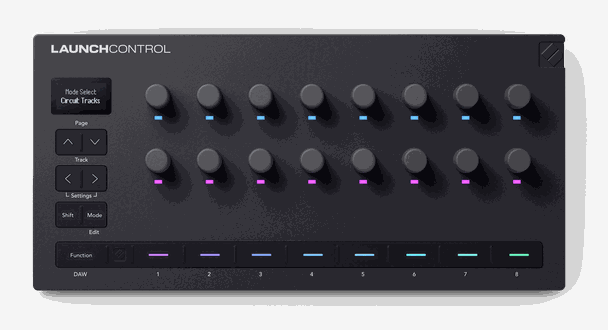
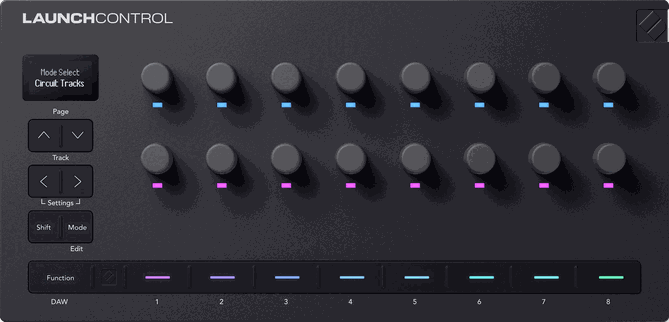
Controls Guide: photos cropped to the device, one height; the Launch Control 3's guide stands alone (Adam, 2026-11-04)
The three photos are cropped to the opaque device (the Launch Control 3's
had a wide soft shadow) and scaled to 322 pixels tall, the tallest at
which the Roto-Control's fits the page. The Launch Control 3's guide no
longer refers to the XL 3's: it has its own buttons table and notes, the
same text in ControlsGuide and docs/SETUP.md.

Claude-Session: https://claude.ai/code/session_01X1yiLTREdtDAuNmEVbFzKU

diff --git a/Sources/BridgeEngine/ControlsGuide.swift b/Sources/BridgeEngine/ControlsGuide.swift
@@ -99,18 +99,27 @@ public struct ControlsGuide: Equatable, Sendable {
     static let launchControl3 = ControlsGuide(
         title: "Launch Control 3",
         image: "controller-launch-control-3",
-        introduction: ["The Launch Control 3 works the same way, with fewer controls:"],
+        introduction: [],
         tables: [
             Table(controlHeading: "Control (in each column)", actionHeading: "What it does for that column's channel", rows: [
                 Row("Bottom encoder", "Level in Main Out"),
                 Row("Top encoder", "Pan, or a send: **Page ▼** / **▲** steps it through Pan, then each output in the Outputs list"),
                 Row("Button", "Mute; PFL while **Function** (labeled \"DAW\" underneath) is held (orange for mute, yellow for PFL, dim when off). Function rests dim yellow; it lights bright yellow while held, and also while any channel's PFL is on, so a PFL left on still shows"),
             ]),
+            Table(controlHeading: "Button", actionHeading: "What it does", rows: [
+                Row("**Track >** / **Track <**", "Show the next or previous eight channels. With **Shift**: the last or first eight."),
+                Row("**Page ▼** / **Page ▲**", "Change what the top encoder row does: Pan, then each output in the Outputs list, in order."),
+                Row("**Shift + turn an encoder**", "Reset it: a pan to the center, a level above 0 dB down to 0 dB (one at or below 0 dB stays), a send to −oo (release Shift, then Shift + turn it again to bring it back). Hold Shift for a moment (0.3 s) first; after Page or Track in the same hold, turning does nothing."),
+            ]),
         ],
         notes: [
-            "Track works as on the XL 3 and Shift + turn resets an encoder as it does there; a level above 0 dB comes down to 0 dB, and one at or below 0 dB stays.",
-            "The screen shows the channels on the page, the top row's function (e.g., \"Top: Pan\"), and the buttons' (\"Buttons: Mute\", or \"PFL on, buttons Mute\" while a PFL is on; briefly \"Buttons\" over \"PFL\" while Function is held).",
-            "The **Novation button** brings TotalMix FX's window to the front, as on the XL 3.",
+            "The screen shows the channels on the page, counted in the order of **Settings… → Channel Layout** with a stereo pair counting once, the top row's function (e.g., \"Top: Pan\"), and the buttons' (\"Buttons: Mute\", or \"PFL on, buttons Mute\" while a PFL is on; briefly \"Buttons\" over \"PFL\" while Function is held).",
+            "Moving a control shows its channel, what it does, and its value.",
+            "After each Page press the screen names the top row's new function.",
+            "The top row's function is remembered when Performance Bridge restarts. It can also be chosen in Settings, at the bottom of the Connections tab, with the Launch Control connected or not; the change takes effect at once.",
+            "Press **Track <** and **Track >** together to go back to the first eight channels.",
+            "The **Novation button** brings TotalMix FX's window to the front. Press it again while TotalMix FX is in front to go back to the app you were in (if TotalMix FX came to the front some other way, the press hides it instead).",
+            "Level and pan are Main Out's. In TotalMix FX each submix has its own level and pan for every channel, so TotalMix FX's window shows the pans set here only while Main Out's output is selected in its bottom row (observed 2026-11-01 on a Launch Control XL 3).",
             "The Launch Control 3 has not been tried on a device yet.",
         ])
 

diff --git a/docs/SETUP.md b/docs/SETUP.md
@@ -215,7 +215,7 @@ the main mix) and the cue output (PFL uses it) aren't listed there.
 
 ### Roto-Control
 
-<img src="../App/PerformanceBridge/Resources/controller-roto-control.png" width="560" alt="Melbourne Instruments Roto-Control, seen from above: eight knobs, each with a screen and a switch below it, and the MODE, LEARN, FUNC, SEL, and arrow buttons on the left">
+<img src="../App/PerformanceBridge/Resources/controller-roto-control.png" width="558" alt="Melbourne Instruments Roto-Control, seen from above: eight knobs, each with a screen and a switch below it, and the MODE, LEARN, FUNC, SEL, and arrow buttons on the left">
 
 Each of the eight knobs is a channel.
 
@@ -230,7 +230,7 @@ the same channels.
 
 ### Launch Control XL 3
 
-<img src="../App/PerformanceBridge/Resources/controller-launch-control-xl3.png" width="172" alt="Novation Launch Control XL 3, seen from above: three rows of eight encoders, eight faders, and two rows of eight buttons, with Page, Track, Shift, and Mode on the left">
+<img src="../App/PerformanceBridge/Resources/controller-launch-control-xl3.png" width="168" alt="Novation Launch Control XL 3, seen from above: three rows of eight encoders, eight faders, and two rows of eight buttons, with Page, Track, Shift, and Mode on the left">
 
 | Control (in each column) | What it does for that column's channel |
 |---|---|
@@ -267,9 +267,7 @@ the same channels.
 
 ### Launch Control 3
 
-<img src="../App/PerformanceBridge/Resources/controller-launch-control-3.png" width="304" alt="Novation Launch Control 3, seen from above: two rows of eight encoders and one row of eight buttons, with Page, Track, Shift, Mode, and Function on the left">
-
-The Launch Control 3 works the same way, with fewer controls:
+<img src="../App/PerformanceBridge/Resources/controller-launch-control-3.png" width="334" alt="Novation Launch Control 3, seen from above: two rows of eight encoders and one row of eight buttons, with Page, Track, Shift, Mode, and Function on the left">
 
 | Control (in each column) | What it does for that column's channel |
 |---|---|
@@ -277,11 +275,24 @@ The Launch Control 3 works the same way, with fewer controls:
 | Top encoder | Pan, or a send: **Page ▼** / **▲** steps it through Pan, then each output in the Outputs list |
 | Button | Mute; PFL while **Function** (labeled "DAW" underneath) is held (orange for mute, yellow for PFL, dim when off). Function rests dim yellow; it lights bright yellow while held, and also while any channel's PFL is on, so a PFL left on still shows |
 
-- Track works as on the XL 3 and Shift + turn resets an encoder as it does there; a level above 0 dB comes down to 0 dB,
-  and one at or below 0 dB stays. The screen shows the channels on the page, the top row's function (e.g., "Top: Pan"),
-  and the buttons' ("Buttons: Mute", or "PFL on, buttons Mute" while a PFL is on; briefly "Buttons" over "PFL" while
-  Function is held).
-- The **Novation button** brings TotalMix FX's window to the front, as on the XL 3.
+| Button | What it does |
+|---|---|
+| **Track >** / **Track <** | Show the next or previous eight channels. With **Shift**: the last or first eight. |
+| **Page ▼** / **Page ▲** | Change what the top encoder row does: Pan, then each output in the Outputs list, in order. |
+| **Shift + turn an encoder** | Reset it: a pan to the center, a level above 0 dB down to 0 dB (one at or below 0 dB stays), a send to −oo (release Shift, then Shift + turn it again to bring it back). Hold Shift for a moment (0.3 s) first; after Page or Track in the same hold, turning does nothing. |
+
+- The screen shows the channels on the page, counted in the order of **Settings… → Channel Layout** with a stereo pair
+  counting once, the top row's function (e.g., "Top: Pan"), and the buttons' ("Buttons: Mute", or "PFL on, buttons Mute"
+  while a PFL is on; briefly "Buttons" over "PFL" while Function is held).
+- Moving a control shows its channel, what it does, and its value.
+- After each Page press the screen names the top row's new function.
+- The top row's function is remembered when Performance Bridge restarts. It can also be chosen in Settings, at the
+  bottom of the Connections tab, with the Launch Control connected or not; the change takes effect at once.
+- Press **Track <** and **Track >** together to go back to the first eight channels.
+- The **Novation button** brings TotalMix FX's window to the front. Press it again while TotalMix FX is in front to go back to the app you were in (if TotalMix FX came to the front some other way, the press hides it instead).
+- Level and pan are Main Out's. In TotalMix FX each submix has its own level and pan for every channel, so TotalMix FX's
+  window shows the pans set here only while Main Out's output is selected in its bottom row (observed 2026-11-01 on a
+  Launch Control XL 3).
 - The Launch Control 3 has not been tried on a device yet. See [`docs/LAUNCH-CONTROL-3.md`](LAUNCH-CONTROL-3.md).
 
 The photos of the hardware controllers in this step are Novation's and Melbourne Instruments'.

diff --git a/AGENTS.md b/AGENTS.md
@@ -144,7 +144,7 @@ Do:
 Don't:
 
 - Don't commit vendor documents (RME's protocol document, Melbourne Instruments' or Novation's PDFs) or text copied from them. Describe what this project relies on in its own words, and link the source.
-  Two exceptions. Screenshots of TotalMix FX's windows (Adam, 2026-10-31) may be published. They live in `App/PerformanceBridge/Resources/` (`totalmix-*.png`, Retina captures), where the Setup Guide shows them and `docs/SETUP.md` links to them. Performance Bridge's own windows are there too (`app-*.png`); whenever a window or menu item they show changes, ask Adam for a new screenshot (Adam, 2026-11-02). Take them from TotalMix FX itself, controller 1 with ports 7001 and 9001, and replace personal details such as the Mac's name ("your-mac.local"). The makers' product photos of the hardware controllers (Adam, 2026-11-04) are the second exception: `controller-*.png`, the top views from Novation's and Melbourne Instruments' websites, trimmed and scaled to the same height, 330 pixels (165 points; the Roto-Control's at the page's full width; Adam, 2026-11-04), shown by the Controls Guide and `docs/SETUP.md`, Step 6, and credited there. They are the makers' images, not MIT-licensed with the rest of the repository.
+  Two exceptions. Screenshots of TotalMix FX's windows (Adam, 2026-10-31) may be published. They live in `App/PerformanceBridge/Resources/` (`totalmix-*.png`, Retina captures), where the Setup Guide shows them and `docs/SETUP.md` links to them. Performance Bridge's own windows are there too (`app-*.png`); whenever a window or menu item they show changes, ask Adam for a new screenshot (Adam, 2026-11-02). Take them from TotalMix FX itself, controller 1 with ports 7001 and 9001, and replace personal details such as the Mac's name ("your-mac.local"). The makers' product photos of the hardware controllers (Adam, 2026-11-04) are the second exception: `controller-*.png`, the top views from Novation's and Melbourne Instruments' websites, cropped to the device itself (no shadow) and scaled to one height, 322 pixels (161 points), the tallest at which the widest, the Roto-Control's, fits the page; Adam, 2026-11-04). Each controller's guide is written to stand alone, since the window shows one at a time (Adam, 2026-11-04), shown by the Controls Guide and `docs/SETUP.md`, Step 6, and credited there. They are the makers' images, not MIT-licensed with the rest of the repository.
 - Don't paste vendor code. Melbourne Instruments' integrations are MIT-licensed, so anything adapted from them keeps their copyright notice in the file.
 - Don't add dependencies to the libraries.
 - Don't use "TotalMix", "RME", "Roto-Control", or "Launch Control" in the app's name. Use them only to describe what it works with.
